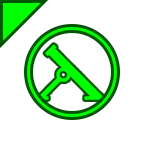
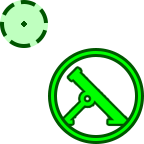
Updated buttons and marker placement behaviour
* fixed buttons by making span elements flex
 * increased github and debug button icon size because I can
 * changed marker placement behaviour so that target marker position will be updated instead of showing choice popup
 * added big buttons remove mortar or target marker from map
 * updated marker icons yet again

diff --git a/public/js/L.Mortar.js b/public/js/L.Mortar.js
@@ -10,6 +10,8 @@ L.Mortar = L.LayerGroup.extend({
     attribution: "Created by <a href='https://github.com/Endebert/squadmc'>Robert Ende</a>",
     mortarPosElement: undefined,
     targetPosElement: undefined,
+    mortarDeleteBtn: undefined,
+    targetDeleteBtn: undefined,
   },
 
   l: Logger.get("Mortar"),
@@ -27,6 +29,19 @@ L.Mortar = L.LayerGroup.extend({
       mortar: options.mortarPosElement.style.color,
       target: options.targetPosElement.style.color,
     };
+
+    if (options.mortarDeleteBtn) {
+      options.mortarDeleteBtn.button.addEventListener("click", () => {
+        this.removeMortar();
+        options.mortarDeleteBtn.disable();
+      });
+    }
+    if (options.targetDeleteBtn) {
+      options.targetDeleteBtn.button.addEventListener("click", () => {
+        this.removeTarget();
+        options.targetDeleteBtn.disable();
+      });
+    }
   },
 
   onAdd(map) {
@@ -64,7 +79,30 @@ L.Mortar = L.LayerGroup.extend({
     this.setMortarPosText();
     this.setTargetPosText();
     Utils.setBearingText();
+    Utils.setDistanceText();
     Utils.setElevationText();
+  },
+
+  removeMortar() {
+    let targetPos;
+    if (this.mo.targetMarker) {
+      targetPos = this.mo.targetMarker.getLatLng();
+    }
+    this.reset();
+    if (targetPos) {
+      this.setTarget(targetPos);
+    }
+  },
+
+  removeTarget() {
+    let mortarPos;
+    if (this.mo.mortarMarker) {
+      mortarPos = this.mo.mortarMarker.getLatLng();
+    }
+    this.reset();
+    if (mortarPos) {
+      this.setMortar(mortarPos);
+    }
   },
 
   /**
@@ -158,35 +196,7 @@ L.Mortar = L.LayerGroup.extend({
     this.l.debug("setMortar:", latlng);
     // if marker doesn't exist, we have to create it and its components first
     if (!this.mo.mortarMarker) {
-      // create marker
-      this.mo.mortarMarker = new L.marker(latlng, { draggable: "true", icon: Utils.mortarIcon });
-
-      // create green max range circle
-      this.createMaxRangeCircle(latlng);
-
-      // create red min range circle
-      this.createMinRangeCircle(latlng);
-
-      // add listeners for dragging
-      this.mo.mortarMarker.on("dragstart", () => {
-        this.dragged = true;
-      });
-      this.mo.mortarMarker.on("drag", (e) => {
-        this.calcAndDraw();
-        this.mo.maxRangeCircle.setLatLng(e.latlng);
-        this.mo.minRangeCircle.setLatLng(e.latlng);
-        this.setMortarPosText(Utils.getKP(e.latlng.lat, e.latlng.lng));
-      });
-      this.mo.mortarMarker.on("dragend", () => {
-        setTimeout(() => { // black magic to not trigger click after drag
-          this.dragged = false;
-        }, 10);
-      });
-
-      // add marker and components to layer
-      this.mo.mortarMarker.addTo(this);
-      this.mo.maxRangeCircle.addTo(this);
-      this.mo.minRangeCircle.addTo(this);
+      this.createMortar(latlng);
     } else {
       // if everything exists already, we just move the marker and components to the target position
       this.mo.mortarMarker.setLatLng(latlng);
@@ -200,6 +210,43 @@ L.Mortar = L.LayerGroup.extend({
     // also update top ribbon to show the correct keypad
     if (updateText) {
       this.setMortarPosText(Utils.getKP(latlng.lat, latlng.lng));
+    }
+  },
+
+  createMortar(latlng) {
+    // create marker
+    this.mo.mortarMarker = new L.marker(latlng, { draggable: "true", icon: Utils.mortarIcon });
+
+    // create green max range circle
+    this.createMaxRangeCircle(latlng);
+
+    // create red min range circle
+    this.createMinRangeCircle(latlng);
+
+    // add listeners for dragging
+    this.mo.mortarMarker.on("dragstart", () => {
+      this.dragged = true;
+    });
+    this.mo.mortarMarker.on("drag", (e) => {
+      this.calcAndDraw();
+      this.mo.maxRangeCircle.setLatLng(e.latlng);
+      this.mo.minRangeCircle.setLatLng(e.latlng);
+      this.setMortarPosText(Utils.getKP(e.latlng.lat, e.latlng.lng));
+    });
+    this.mo.mortarMarker.on("dragend", () => {
+      setTimeout(() => { // black magic to not trigger click after drag
+        this.dragged = false;
+      }, 10);
+    });
+
+    // add marker and components to layer
+    this.mo.mortarMarker.addTo(this);
+    this.mo.maxRangeCircle.addTo(this);
+    this.mo.minRangeCircle.addTo(this);
+
+    // finally, if mortar delete button is given, enable it
+    if (this.options.mortarDeleteBtn) {
+      this.options.mortarDeleteBtn.enable();
     }
   },
 
@@ -221,24 +268,7 @@ L.Mortar = L.LayerGroup.extend({
     this.l.debug("setTarget:", latlng);
     // if target marker doesn't exist, we have to create it first
     if (!this.mo.targetMarker) {
-      this.mo.targetMarker = new L.marker(latlng, { draggable: "true", icon: Utils.targetIcon });
-
-      // add listeners for dragging
-      this.mo.targetMarker.on("dragstart", () => {
-        this.dragged = true;
-      });
-      this.mo.targetMarker.on("drag", (e) => {
-        this.calcAndDraw();
-        this.setTargetPosText(Utils.getKP(e.latlng.lat, e.latlng.lng));
-      });
-      this.mo.targetMarker.on("dragend", () => {
-        setTimeout(() => { // black magic to not trigger click after drag
-          this.dragged = false;
-        }, 10);
-      });
-
-      // now add marker to layer
-      this.mo.targetMarker.addTo(this);
+      this.createTarget(latlng);
     } else {
       // if marker exists already, we just move it to the target position
       this.mo.targetMarker.setLatLng(latlng);
@@ -248,6 +278,32 @@ L.Mortar = L.LayerGroup.extend({
     // also update top ribbon to show the correct keypad
     if (updateText) {
       this.setTargetPosText(Utils.getKP(latlng.lat, latlng.lng));
+    }
+  },
+
+  createTarget(latlng) {
+    this.mo.targetMarker = new L.marker(latlng, { draggable: "true", icon: Utils.targetIcon });
+
+    // add listeners for dragging
+    this.mo.targetMarker.on("dragstart", () => {
+      this.dragged = true;
+    });
+    this.mo.targetMarker.on("drag", (e) => {
+      this.calcAndDraw();
+      this.setTargetPosText(Utils.getKP(e.latlng.lat, e.latlng.lng));
+    });
+    this.mo.targetMarker.on("dragend", () => {
+      setTimeout(() => { // black magic to not trigger click after drag
+        this.dragged = false;
+      }, 10);
+    });
+
+    // now add marker to layer
+    this.mo.targetMarker.addTo(this);
+
+    // finally, if target delete button is given, enable it
+    if (this.options.targetDeleteBtn) {
+      this.options.targetDeleteBtn.enable();
     }
   },
 
@@ -269,36 +325,36 @@ L.Mortar = L.LayerGroup.extend({
     // check what exists and what doesn't
     if (!this.mo.mortarMarker) {
       this.setMortar(e.latlng);
-    } else if (!this.mo.targetMarker) {
-      this.setTarget(e.latlng);
     } else {
-      // both markers exist, so we create the choice popup
-      const choicePopUp = L.popup();
-      const container = L.DomUtil.create("div");
-
-      const mortar = Utils.createButton(
-        `<img src="./images/mortar.png" height=${Utils.iSize} width=${Utils.iSize} style="display: block">`,
-        container,
-      );
-      const target = Utils.createButton(
-        `<img src="./images/target.png" height=${Utils.iSize} width=${Utils.iSize} style="display: block">`,
-        container,
-      );
-
-      choicePopUp
-        .setLatLng(e.latlng)
-        .setContent(container)
-        .openOn(this.map);
-
-      L.DomEvent.on(mortar, "click", () => {
-        this.map.closePopup();
-        this.setMortar(e.latlng);
-      });
-
-      L.DomEvent.on(target, "click", () => {
-        this.map.closePopup();
-        this.setTarget(e.latlng);
-      });
+      this.setTarget(e.latlng);
+      // } else {
+      //   // both markers exist, so we create the choice popup
+      //   const choicePopUp = L.popup();
+      //   const container = L.DomUtil.create("div");
+      //
+      //   const mortar = Utils.createButton(
+      //     `<img src="./images/mortar.png" height=${Utils.iSize} width=${Utils.iSize} style="display: block">`,
+      //     container,
+      //   );
+      //   const target = Utils.createButton(
+      //     `<img src="./images/target.png" height=${Utils.iSize} width=${Utils.iSize} style="display: block">`,
+      //     container,
+      //   );
+      //
+      //   choicePopUp
+      //     .setLatLng(e.latlng)
+      //     .setContent(container)
+      //     .openOn(this.map);
+      //
+      //   L.DomEvent.on(mortar, "click", () => {
+      //     this.map.closePopup();
+      //     this.setMortar(e.latlng);
+      //   });
+      //
+      //   L.DomEvent.on(target, "click", () => {
+      //     this.map.closePopup();
+      //     this.setTarget(e.latlng);
+      //   });
     }
 
     // in debug mode we copy the click coordinates to the clipboard

diff --git a/public/js/main.js b/public/js/main.js
@@ -36,6 +36,7 @@
   // lets you select the map and whether or not to display grid/locations
   const layerControl = L.control.layers(maps, overlayMaps);
   layerControl.addTo(map);
+  console.debug("layerControl:", layerControl);
 
   // shows map scale on bottom right
   const scaleControl = L.control.scale({
@@ -47,10 +48,45 @@
   const mouseControl = L.control.mousePosition();
   mouseControl.addTo(map);
 
+
+  const mortarDeleteBtn = L.easyButton({
+    position: "topright",
+    states: [{
+      stateName: "on",
+      icon: "<img class='bigbtnicon' src='images/mortar_remove.png'>",
+      title: "Remove mortar marker",
+    }],
+  });
+
+  mortarDeleteBtn.button.style.width = "44px";
+  mortarDeleteBtn.button.style.height = "44px";
+  // default state is disabled
+  mortarDeleteBtn.disable();
+
+  mortarDeleteBtn.addTo(map);
+
+  const targetDeleteBtn = L.easyButton({
+    position: "topright",
+    states: [{
+      stateName: "on",
+      icon: "<img class='bigbtnicon' src='images/target_remove.png'>",
+      title: "Remove target marker",
+    }],
+  });
+
+  targetDeleteBtn.button.style.width = "44px";
+  targetDeleteBtn.button.style.height = "44px";
+  // default state is disabled
+  targetDeleteBtn.disable();
+
+  targetDeleteBtn.addTo(map);
+
   // the most important part, the mortar layer
   const mortarLayer = L.mortar({
     mortarPosElement: document.getElementById("mortarPos"),
     targetPosElement: document.getElementById("targetPos"),
+    mortarDeleteBtn,
+    targetDeleteBtn,
   });
   mortarLayer.addTo(map);
 

diff --git a/public/js/Utils.js b/public/js/Utils.js
@@ -51,7 +51,7 @@ const Utils = {
     iconUrl: "images/mortar_marker.png",
 
     iconSize: [iconSize, iconSize], // size of the icon
-    iconAnchor: [0, 0], // point of the icon which will correspond to marker's location
+    iconAnchor: [8, 8], // point of the icon which will correspond to marker's location
     popupAnchor: [0, -iconSize / 2], // point from which the popup should open relative to the iconAnchor
   }),
 
@@ -61,7 +61,7 @@ const Utils = {
       iconUrl: "images/target_marker.png",
 
       iconSize: [iconSize, iconSize], // size of the icon
-      iconAnchor: [0, 0], // point of the icon which will correspond to marker's location
+      iconAnchor: [8, 8], // point of the icon which will correspond to marker's location
       popupAnchor: [0, -iconSize / 2], // point from which the popup should open relative to the iconAnchor
     }),
 

diff --git a/public/css/custom.css b/public/css/custom.css
@@ -144,10 +144,20 @@ input {
 }
 
 .icon {
-    display: inline-block;
-    width: 1em;
-    height: 1em;
-    stroke-width: 0;
+    /*display: inline-block;*/
+    width: 24px;
+    height: 24px;
+    /*stroke-width: 0;*/
     /*stroke: currentColor;*/
     /*fill: currentColor;*/
+}
+
+.bigbtnicon {
+    width: 32px;
+    height: 32px;
+}
+
+span {
+    display: flex!important;
+    align-items: center;
 }
